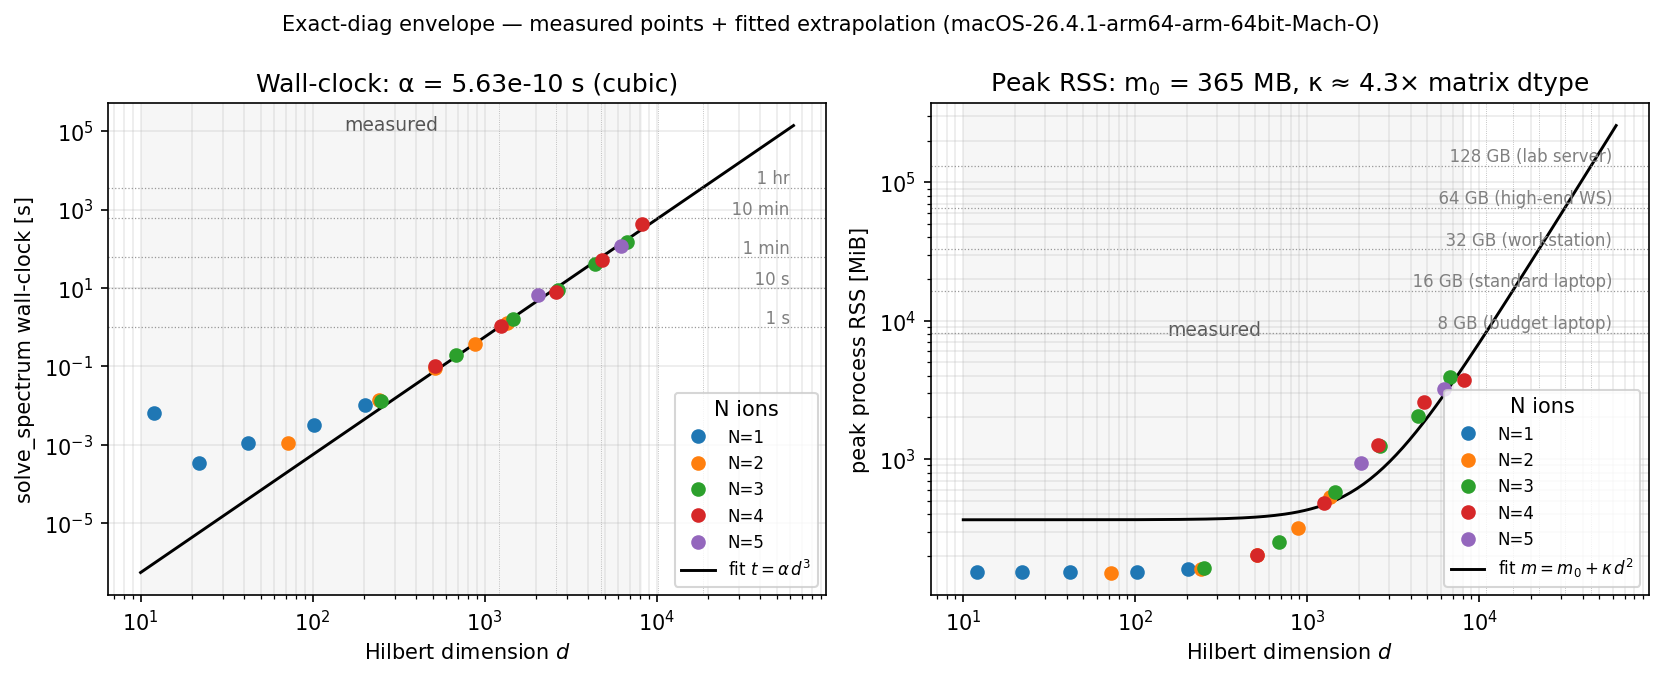
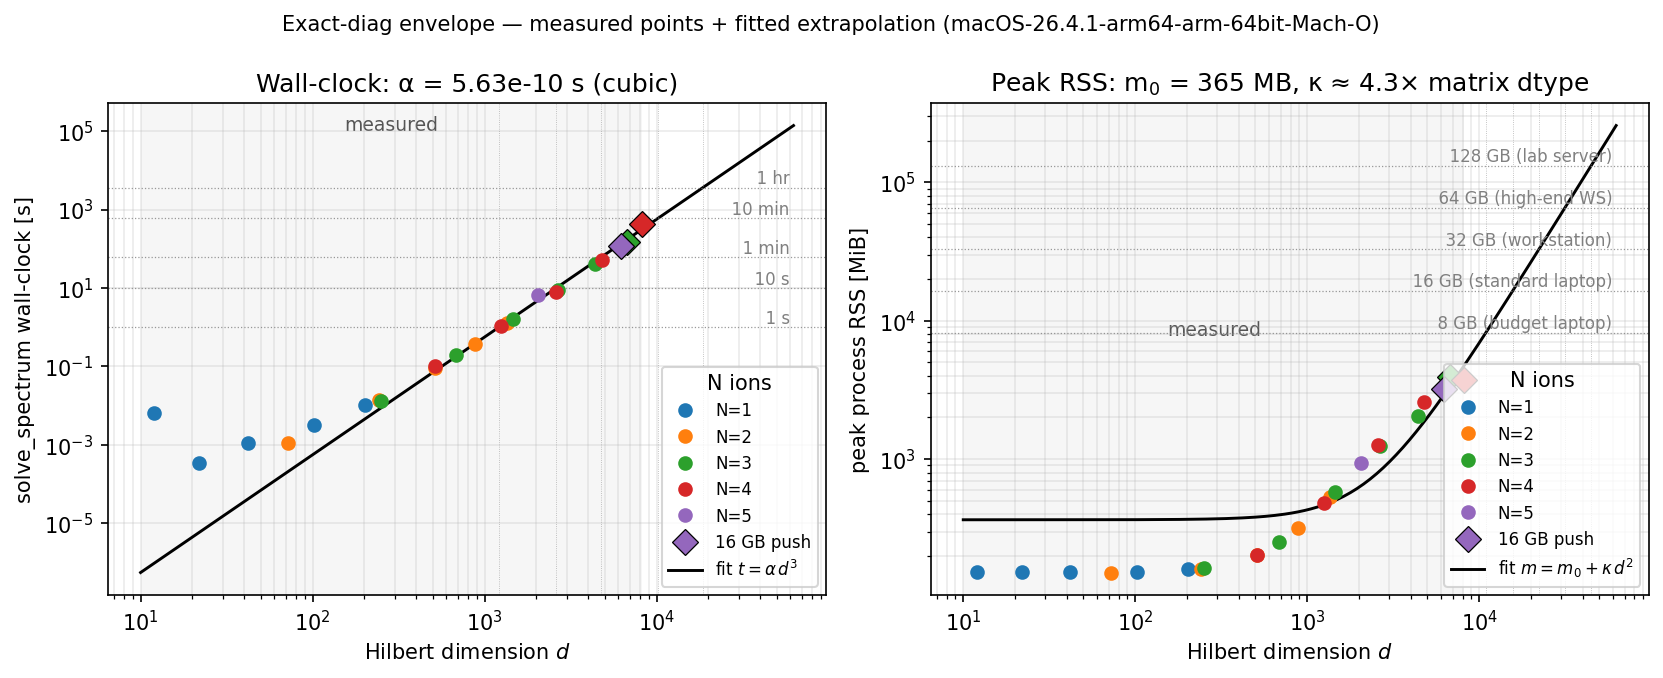
benchmarks: highlight 16 GB-push probes in extrapolation plot
Use diamond markers with black edges for the three deliberate-swap
points (dim >= 6 000) so the "this is where we pushed into 16 GB
territory" narrative reads off the figure without hunting for the
last point in each colour cluster.

diff --git a/tools/plot_spectrum_envelope_extrapolation.py b/tools/plot_spectrum_envelope_extrapolation.py
@@ -197,13 +197,39 @@ def main() -> int:
 
     fig, (ax_wall, ax_rss) = plt.subplots(1, 2, figsize=(11.2, 4.6))
 
-    # Measured points, coloured by N
+    # Measured points, coloured by N. Distinguish the deliberate "16 GB
+    # push" probes (the three large-dim points launched via --include-large)
+    # from the core-grid points using a diamond marker so the swap-pushing
+    # block reads clearly off the figure.
+    LARGE_DIM_THRESHOLD = 6000
     for n_ions, colour in N_IONS_COLOURS.items():
         mask = n_ions_arr == n_ions
         if not mask.any():
             continue
-        ax_wall.loglog(dims[mask], walls[mask], "o", color=colour, label=f"N={n_ions}", zorder=3)
-        ax_rss.loglog(dims[mask], rsss[mask] / 1024**2, "o", color=colour, label=f"N={n_ions}", zorder=3)
+        is_large = dims[mask] >= LARGE_DIM_THRESHOLD
+        # Core grid -- circle marker
+        if (~is_large).any():
+            d_core = dims[mask][~is_large]
+            w_core = walls[mask][~is_large]
+            r_core = rsss[mask][~is_large]
+            ax_wall.loglog(d_core, w_core, "o", color=colour, label=f"N={n_ions}", zorder=3)
+            ax_rss.loglog(d_core, r_core / 1024**2, "o", color=colour, label=f"N={n_ions}", zorder=3)
+        # Large-dim probes -- diamond marker, no separate legend entry
+        if is_large.any():
+            d_lp = dims[mask][is_large]
+            w_lp = walls[mask][is_large]
+            r_lp = rsss[mask][is_large]
+            label = "16 GB push" if n_ions == max(N_IONS_COLOURS) else None
+            ax_wall.loglog(
+                d_lp, w_lp, "D", color=colour, markersize=9,
+                markeredgecolor="black", markeredgewidth=0.6,
+                label=label, zorder=4,
+            )
+            ax_rss.loglog(
+                d_lp, r_lp / 1024**2, "D", color=colour, markersize=9,
+                markeredgecolor="black", markeredgewidth=0.6,
+                label=label, zorder=4,
+            )
 
     # Fitted extrapolation
     ax_wall.loglog(
